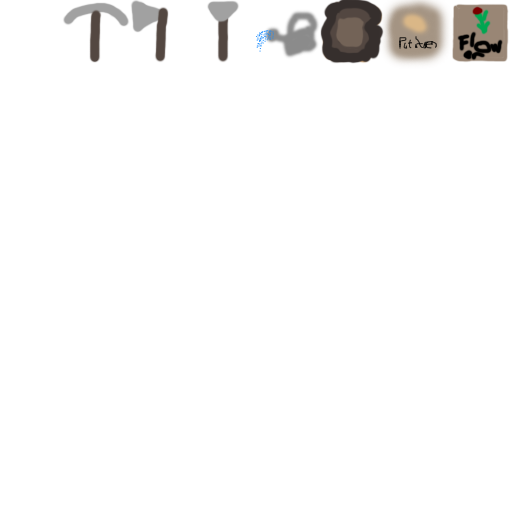
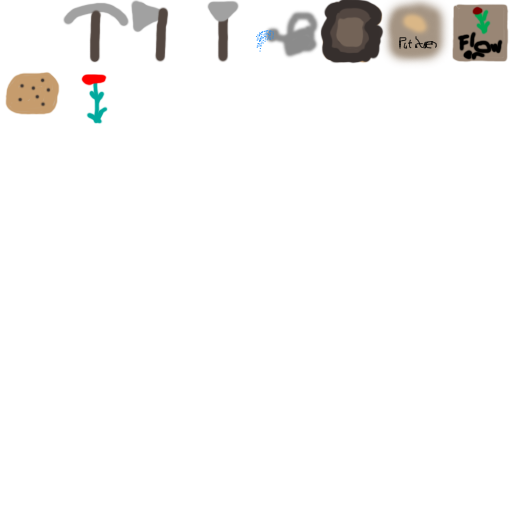
Introducing Harvesting

Changed region(s): [[0.0, 0.125, 0.125, 0.25], [0.1562, 0.125, 0.2188, 0.25]]

diff --git a/Westwood/Farm.cpp b/Westwood/Farm.cpp
@@ -1,11 +1,16 @@
 #include "Farm.h"
 #include "GameEventMaster.h"
 #include "TileMap.h"
+#include "WorldZone.h"
 
 CFarm::CFarm()
 {
-	m_plantBank.LoadAllPlants();
 	CGameEventMaster::GetInstance().SubscribeToEvent(EGameEvent::FadeReachBlack, [this] {this->TickDay(); });
+}
+
+void CFarm::Init()
+{
+	m_plantBank.LoadAllPlants();
 }
 
 void CFarm::PlantSeed(const char * a_plantName, short a_tileIndex)
@@ -17,10 +22,8 @@ void CFarm::PlantSeed(const char * a_plantName, short a_tileIndex)
 
 void CFarm::PlantSeed(short a_plantID, short a_tileIndex)
 {
-	m_plants.push_back(SPlantedPlant());
-
-	m_plants.back().m_plantID = a_plantID;
-	m_plants.back().m_tileIndex = a_tileIndex;
+	m_plants[a_tileIndex].m_plantID = a_plantID;
+	m_plants[a_tileIndex].m_days = 0;
 }
 
 void CFarm::BindFarmTileMap(CTileMap & a_tileMap)
@@ -32,34 +35,54 @@ bool CFarm::TileContainsSeed(short a_tileIndex)
 {
 	bool foundSeed = false;
 
-	for (SPlantedPlant& plant : m_plants)
+	if(m_plants.find(a_tileIndex) != m_plants.end())
 	{
-		if (plant.m_tileIndex == a_tileIndex)
-		{
-			foundSeed = true;
-		}
+		foundSeed = true;
 	}
 
 	return foundSeed;
 }
 
+bool CFarm::TryHarvest(short a_tileIndex, CWorldZone* a_zone)
+{
+	if (m_plants.find(a_tileIndex) == m_plants.end())
+	{
+		return false;
+	}
+
+	const CPlant& relevantPlant = m_plantBank.GetPlant(m_plants[a_tileIndex].m_plantID);
+
+	if (relevantPlant.IsMatured(m_plants[a_tileIndex].m_days))
+	{
+		a_zone->SpawnItem(relevantPlant.GetPlantAsItemID(), 1, a_zone->GetTileMap().GetTilePosition(a_tileIndex));
+
+		m_plants.erase(a_tileIndex);
+
+		return true;
+	}
+
+
+	return false;
+
+}
+
 void CFarm::Render()
 {
-	for (SPlantedPlant& plantData : m_plants)
+	for (auto& plantData : m_plants)
 	{
-		const CPlant& plant = m_plantBank.GetPlant(plantData.m_plantID);
+		const CPlant& plant = m_plantBank.GetPlant(plantData.second.m_plantID);
 
-		plant.Render(m_tileMap->GetTilePosition(plantData.m_tileIndex), plantData.m_days);
+		plant.Render(m_tileMap->GetTilePosition(plantData.first), plantData.second.m_days);
 	}
 }
 
 void CFarm::TickDay()
 {
-	for (SPlantedPlant& plant : m_plants)
+	for (auto& plant : m_plants)
 	{
-		if (m_tileMap->IsTileWatered(plant.m_tileIndex))
+		if (m_tileMap->IsTileWatered(plant.first))
 		{
-			plant.m_days++;
+			plant.second.m_days += 1;
 		}
 	}
 }

diff --git a/Westwood/Player.cpp b/Westwood/Player.cpp
@@ -123,7 +123,7 @@ void CPlayer::Faint()
 void CPlayer::DoInteraction()
 {
 	short heldItem = m_inventory.GetActiveSlotItemID();
-
+	short targetedTile = m_currentZone->GetTileMap().ConvertPositionToTileIndex(GetInteractPosition());
 	CInteractableItem* interactableObject = m_currentZone->GetTargetedObject(GetInteractPosition());
 
 	if (interactableObject != nullptr)
@@ -134,15 +134,17 @@ void CPlayer::DoInteraction()
 	{
 		CAudioManager::GetInstance().PlaySound(m_toolBank.GetActiveToolName());
 	}
+	else if (m_farm->TryHarvest(targetedTile, m_currentZone))
+	{
+
+	}
 	else if (CItemBank::GetInstance().GetItem(heldItem).IsSeed())
 	{
 		short seedID = CItemBank::GetInstance().GetItem(heldItem).GetSeedID();
 
-		short tileIndex = m_currentZone->GetTileMap().ConvertPositionToTileIndex(GetInteractPosition());
-
-		if (m_currentZone->GetTileMap().TileIsPlowed(tileIndex) && m_farm->TileContainsSeed(tileIndex) == false)
+		if (m_currentZone->GetTileMap().TileIsPlowed(targetedTile) && m_farm->TileContainsSeed(targetedTile) == false)
 		{
-			m_farm->PlantSeed(seedID, tileIndex);
+			m_farm->PlantSeed(seedID, targetedTile);
 			m_inventory.AddItemToInventory(heldItem, -1);
 		}
 	}

diff --git a/Westwood/Plant.cpp b/Westwood/Plant.cpp
@@ -3,12 +3,15 @@
 #include <SFML\Graphics\Sprite.hpp>
 #include "Renderer.h"
 #include "TextureBank.h"
+#include "ItemBank.h"
 
 void CPlant::Load(nlohmann::json & a_thisPlantJson)
 {
 	m_name = a_thisPlantJson["name"].get<std::string>();
 	m_rowInSheet = a_thisPlantJson["row"].get<short>();
-	m_daysToMature = a_thisPlantJson["days"].get<short>();
+	m_daysToMature = a_thisPlantJson["days"].get<short>() - 1;
+
+	m_spawnItemID = CItemBank::GetInstance().GetItemID(m_name.toAnsiString().c_str());
 }
 
 const sf::String & CPlant::GetName() const
@@ -35,6 +38,11 @@ void CPlant::Render(const sf::Vector2f & a_position, short a_daysGrown) const
 	sprite.setPosition(a_position);
 
 	CRenderer::GetInstance().PushRenderCommand(sprite, LAYER_OBJECT);
+}
+
+short CPlant::GetPlantAsItemID() const
+{
+	return m_spawnItemID;
 }
 
 short CPlant::GetGrowthStage(short a_daysGrown) const

diff --git a/Westwood/Farm.h b/Westwood/Farm.h
@@ -2,19 +2,24 @@
 #include <vector>
 #include "PlantBank.h"
 #include <SFML\System\Vector2.hpp>
+#include <unordered_map>
 
 class CTileMap;
+class CWorldZone;
 
 class CFarm
 {
 public:
 	CFarm();
+	void Init();
 	void PlantSeed(const char* a_plantName, short a_onTileIndex);
 	void PlantSeed(short a_plantID, short a_onTileIndex);
 
 	void BindFarmTileMap(CTileMap& a_tileMap);
 
 	bool TileContainsSeed(short a_tileIndex);
+
+	bool TryHarvest(short a_tileIndex, CWorldZone* a_zone);
 
 	void Render();
 private:
@@ -28,12 +33,11 @@ private:
 
 		short m_days;
 		short m_plantID;
-		short m_tileIndex;
 	};
 
 	void TickDay();
 private:
-	std::vector<SPlantedPlant> m_plants;
+	std::unordered_map<short, SPlantedPlant> m_plants;
 	CPlantBank m_plantBank;
 
 	CTileMap* m_tileMap;

diff --git a/Westwood/GameWorld.cpp b/Westwood/GameWorld.cpp
@@ -19,7 +19,6 @@ CGameWorld::CGameWorld()
 
 	m_avatarCollection.AddPlayer(m_player);
 
-	m_player.BindFarm(m_farm);
 }
 
 void CGameWorld::Load(const char * a_worldPath)
@@ -50,6 +49,9 @@ void CGameWorld::Load(const char * a_worldPath)
 
 	m_avatarCollection.BindGameWorld(*this);
 	m_avatarCollection.FinalizeAvatarCreation();
+
+	m_farm.Init();
+	m_player.BindFarm(m_farm);
 }
 
 void CGameWorld::Render()

diff --git a/Westwood/Plant.h b/Westwood/Plant.h
@@ -11,10 +11,12 @@ public:
 	const sf::String& GetName() const;
 	bool IsMatured(short a_daysGrown) const;
 	void Render(const sf::Vector2f& a_position, short a_daysGrown) const;
+	short GetPlantAsItemID() const;
 private:
 	short GetGrowthStage(short a_daysGrown) const;
 	sf::String m_name;
 	short m_rowInSheet;
 	short m_daysToMature;
+	short m_spawnItemID;
 
 };
